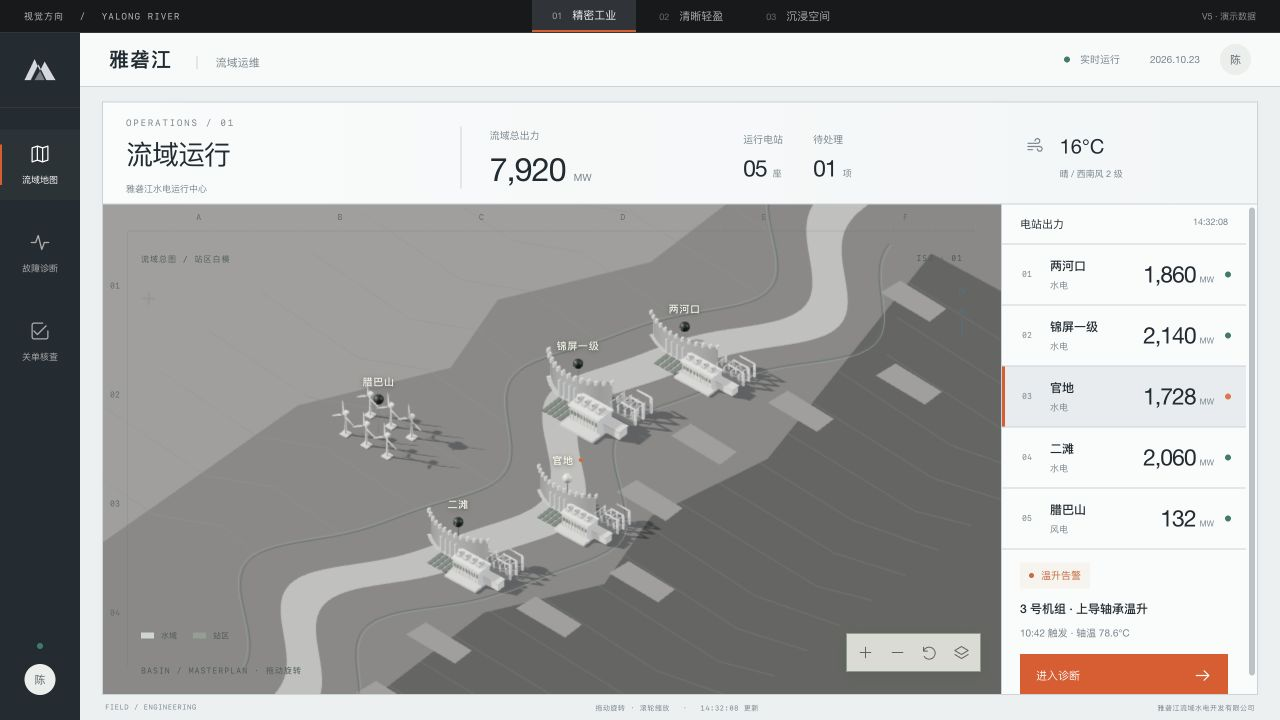
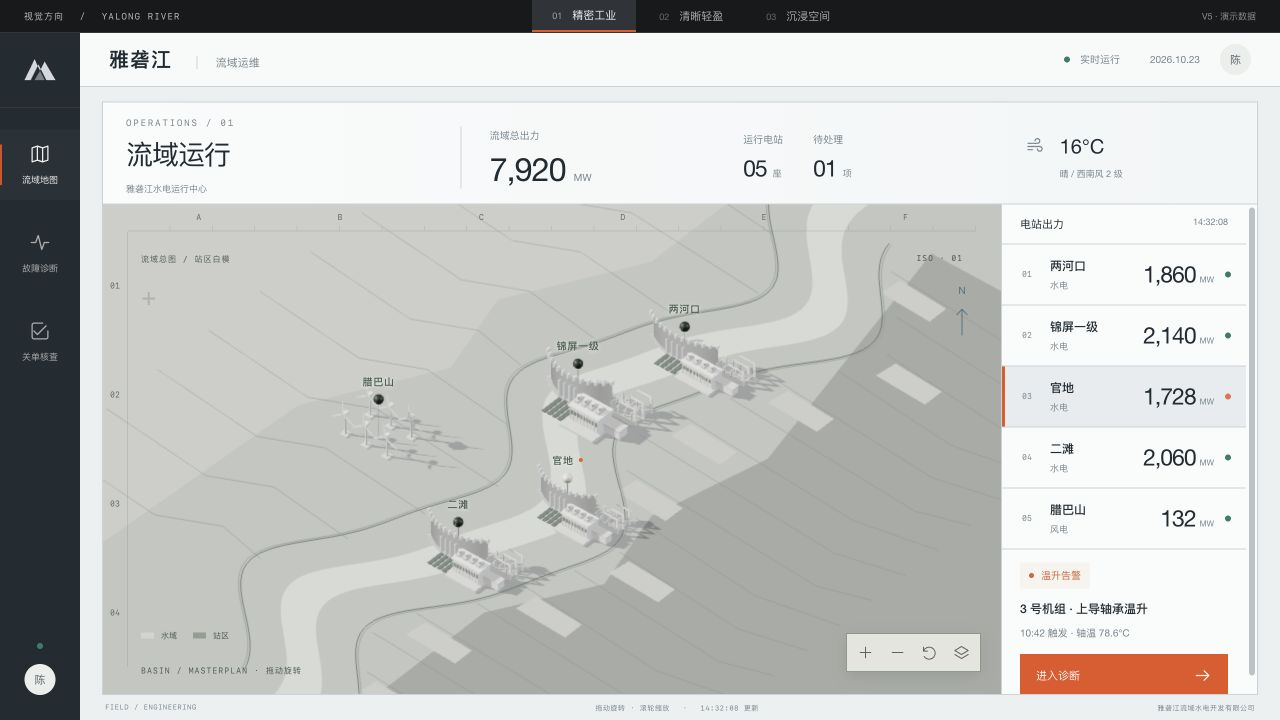
Keep precision industrial in a light drafting palette

diff --git a/compare.html b/compare.html
@@ -1,1 +1,1 @@
-<!doctype html><html lang="zh-CN"><meta charset="utf-8"><meta name="viewport" content="width=device-width,initial-scale=1"><title>雅砻江 · 三方向对比</title><style>*{box-sizing:border-box}body{margin:0;background:#f1f2f3;color:#262b30;font-family:Helvetica Neue,PingFang SC,sans-serif}main{max-width:1780px;margin:auto;padding:42px 36px}header{display:flex;justify-content:space-between;align-items:flex-end;margin-bottom:34px;border-bottom:1px solid #cbd0d5;padding-bottom:26px}h1{font-size:30px;font-weight:500;margin:8px 0 0;letter-spacing:-1px}.eyebrow{font:10px monospace;letter-spacing:2px;color:#858b91}header a{font-size:11px;color:#5b6873;text-decoration:none}h2{font-size:18px;font-weight:500;margin:10px 0}.columns{display:grid;grid-template-columns:repeat(3,minmax(0,1fr));gap:22px}.intro p{font-size:11px;color:#7e858d;margin:8px 0 18px}.intro nav{display:flex;gap:15px}.intro nav a{font-size:11px;color:#515e6c;text-decoration:none;border-bottom:1px solid #aab4bd;padding-bottom:5px}.row-heading{display:flex;gap:15px;align-items:baseline;border-bottom:1px solid #c7cdd2;padding-bottom:12px;margin:32px 0 18px;font-size:12px}.row-heading span{font:10px monospace;color:#8c949d}.preview{display:block;box-shadow:0 12px 25px #26323a10;background:white;text-decoration:none;color:inherit;align-self:start;transition:transform .2s}.preview:hover{transform:translateY(-4px)}.preview img{display:block;width:100%;height:auto}.preview>span{display:block;padding:12px 14px;font-size:11px;border-top:1px solid #d8dde1}.preview b{float:right;font-weight:400;color:#7b8894}footer{margin-top:30px;font-size:11px;color:#7b848d}@media(max-width:750px){main{padding:25px 16px}.columns{gap:10px}h1{font-size:24px}header a{display:none}.intro nav{flex-wrap:wrap;gap:8px}h2{font-size:15px}.intro p{font-size:10px}.preview>span{font-size:9px;padding:9px}.preview b{display:none}}@media(max-width:680px){.columns.previews{display:flex;flex-direction:column;gap:20px}.preview{width:100%}.columns.intros{gap:16px}h2{font-size:13px}}.version-links{display:flex;flex-wrap:wrap;gap:12px;margin:28px 0 0;padding:22px 0 6px;border-top:1px solid #d2d8dd}.version-links a{font-size:12px;color:#435565;text-decoration:none;padding:10px 16px;background:#fff;border:1px solid #dce1e5}.version-links a:hover{border-color:#8596a5}.version-links span{font-size:11px;color:#818b94;align-self:center}.preview img{aspect-ratio:16/9;object-fit:contain}@media(max-width:680px){.columns.intros{grid-template-columns:1fr}.intro{padding-bottom:16px;border-bottom:1px solid #d2d8dd}.intro nav{gap:22px}} </style><main><header><div><div class="eyebrow">YALONG RIVER / V5</div><h1>三种视觉方向</h1></div><a href="https://github.com/CSX1584/yalongjiang02/releases">历史版本下载 ↗</a></header><div class="columns intros"><section class="intro"><div class="eyebrow">DIRECTION 01</div><h2>精密工业</h2><p>白模总图、解剖线框与局部定位</p><nav><a href="./?style=precision&page=map">地图 ↗</a><a href="./?style=precision&page=diagnosis">诊断 ↗</a><a href="./?style=precision&page=review">核查 ↗</a></nav></section><section class="intro"><div class="eyebrow">DIRECTION 02</div><h2>清晰轻盈</h2><p>待办、证据与核查</p><nav><a href="./?style=light&page=map">地图 ↗</a><a href="./?style=light&page=diagnosis">诊断 ↗</a><a href="./?style=light&page=review">核查 ↗</a></nav></section><section class="intro"><div class="eyebrow">DIRECTION 03</div><h2>沉浸空间</h2><p>浅色展台、柔光与空间感</p><nav><a href="./?style=immersive&page=map">地图 ↗</a><a href="./?style=immersive&page=diagnosis">诊断 ↗</a><a href="./?style=immersive&page=review">核查 ↗</a></nav></section></div><div class="row-heading">流域地图<span>MAP</span></div><div class="columns previews"><a class="preview" href="./?style=precision&page=map"><img src="./artifacts-v5/precision-map.png" alt="精密工业 · 流域地图"><span>精密工业 / 流域地图<b>打开 Demo ↗</b></span></a><a class="preview" href="./?style=light&page=map"><img src="./artifacts-v5/light-map.png" alt="清晰轻盈 · 流域地图"><span>清晰轻盈 / 流域地图<b>打开 Demo ↗</b></span></a><a class="preview" href="./?style=immersive&page=map"><img src="./artifacts-v5/immersive-map.png" alt="沉浸空间 · 流域地图"><span>沉浸空间 / 流域地图<b>打开 Demo ↗</b></span></a></div><div class="row-heading">故障诊断<span>DIAGNOSIS</span></div><div class="columns previews"><a class="preview" href="./?style=precision&page=diagnosis"><img src="./artifacts-v5/precision-diagnosis.png" alt="精密工业 · 故障诊断"><span>精密工业 / 故障诊断<b>打开 Demo ↗</b></span></a><a class="preview" href="./?style=light&page=diagnosis"><img src="./artifacts-v5/light-diagnosis.png" alt="清晰轻盈 · 故障诊断"><span>清晰轻盈 / 故障诊断<b>打开 Demo ↗</b></span></a><a class="preview" href="./?style=immersive&page=diagnosis"><img src="./artifacts-v5/immersive-diagnosis.png" alt="沉浸空间 · 故障诊断"><span>沉浸空间 / 故障诊断<b>打开 Demo ↗</b></span></a></div><div class="row-heading">关单核查<span>REVIEW</span></div><div class="columns previews"><a class="preview" href="./?style=precision&page=review"><img src="./artifacts-v5/precision-review.png" alt="精密工业 · 关单核查"><span>精密工业 / 关单核查<b>打开 Demo ↗</b></span></a><a class="preview" href="./?style=light&page=review"><img src="./artifacts-v5/light-review.png" alt="清晰轻盈 · 关单核查"><span>清晰轻盈 / 关单核查<b>打开 Demo ↗</b></span></a><a class="preview" href="./?style=immersive&page=review"><img src="./artifacts-v5/immersive-review.png" alt="沉浸空间 · 关单核查"><span>沉浸空间 / 关单核查<b>打开 Demo ↗</b></span></a></div><nav class="version-links"><a href="https://github.com/CSX1584/yalongjiang02/releases/tag/archive-v1-20261023">V1 · 初版下载 ↗</a><a href="https://github.com/CSX1584/yalongjiang02/releases/tag/archive-v2-20261023">V2 · 布局与 3D 精修 ↗</a><a href="https://github.com/CSX1584/yalongjiang02/releases/tag/archive-v3-20261023">V3 · 自适应与运镜 ↗</a><a href="https://github.com/CSX1584/yalongjiang02/releases/tag/archive-v4-20261023">V4 · 浅色空间与精密工业 ↗</a><a href="https://github.com/CSX1584/yalongjiang02/releases/tag/archive-v5-20261026">V5 · 解剖线框与白模总图 ↗</a><span>每个版本独立保存，可同时打开。</span></nav><footer>点击预览进入可交互 Demo。场景与数据均为示意。</footer></main></html>
+<!doctype html><html lang="zh-CN"><meta charset="utf-8"><meta name="viewport" content="width=device-width,initial-scale=1"><title>雅砻江 · 三方向对比</title><style>*{box-sizing:border-box}body{margin:0;background:#f1f2f3;color:#262b30;font-family:Helvetica Neue,PingFang SC,sans-serif}main{max-width:1780px;margin:auto;padding:42px 36px}header{display:flex;justify-content:space-between;align-items:flex-end;margin-bottom:34px;border-bottom:1px solid #cbd0d5;padding-bottom:26px}h1{font-size:30px;font-weight:500;margin:8px 0 0;letter-spacing:-1px}.eyebrow{font:10px monospace;letter-spacing:2px;color:#858b91}header a{font-size:11px;color:#5b6873;text-decoration:none}h2{font-size:18px;font-weight:500;margin:10px 0}.columns{display:grid;grid-template-columns:repeat(3,minmax(0,1fr));gap:22px}.intro p{font-size:11px;color:#7e858d;margin:8px 0 18px}.intro nav{display:flex;gap:15px}.intro nav a{font-size:11px;color:#515e6c;text-decoration:none;border-bottom:1px solid #aab4bd;padding-bottom:5px}.row-heading{display:flex;gap:15px;align-items:baseline;border-bottom:1px solid #c7cdd2;padding-bottom:12px;margin:32px 0 18px;font-size:12px}.row-heading span{font:10px monospace;color:#8c949d}.preview{display:block;box-shadow:0 12px 25px #26323a10;background:white;text-decoration:none;color:inherit;align-self:start;transition:transform .2s}.preview:hover{transform:translateY(-4px)}.preview img{display:block;width:100%;height:auto}.preview>span{display:block;padding:12px 14px;font-size:11px;border-top:1px solid #d8dde1}.preview b{float:right;font-weight:400;color:#7b8894}footer{margin-top:30px;font-size:11px;color:#7b848d}@media(max-width:750px){main{padding:25px 16px}.columns{gap:10px}h1{font-size:24px}header a{display:none}.intro nav{flex-wrap:wrap;gap:8px}h2{font-size:15px}.intro p{font-size:10px}.preview>span{font-size:9px;padding:9px}.preview b{display:none}}@media(max-width:680px){.columns.previews{display:flex;flex-direction:column;gap:20px}.preview{width:100%}.columns.intros{gap:16px}h2{font-size:13px}}.version-links{display:flex;flex-wrap:wrap;gap:12px;margin:28px 0 0;padding:22px 0 6px;border-top:1px solid #d2d8dd}.version-links a{font-size:12px;color:#435565;text-decoration:none;padding:10px 16px;background:#fff;border:1px solid #dce1e5}.version-links a:hover{border-color:#8596a5}.version-links span{font-size:11px;color:#818b94;align-self:center}.preview img{aspect-ratio:16/9;object-fit:contain}@media(max-width:680px){.columns.intros{grid-template-columns:1fr}.intro{padding-bottom:16px;border-bottom:1px solid #d2d8dd}.intro nav{gap:22px}} </style><main><header><div><div class="eyebrow">YALONG RIVER / V5</div><h1>三种视觉方向</h1></div><a href="https://github.com/CSX1584/yalongjiang02/releases">历史版本下载 ↗</a></header><div class="columns intros"><section class="intro"><div class="eyebrow">DIRECTION 01</div><h2>精密工业</h2><p>白模总图、解剖线框与局部定位</p><nav><a href="./?style=precision&page=map">地图 ↗</a><a href="./?style=precision&page=diagnosis">诊断 ↗</a><a href="./?style=precision&page=review">核查 ↗</a></nav></section><section class="intro"><div class="eyebrow">DIRECTION 02</div><h2>清晰轻盈</h2><p>待办、证据与核查</p><nav><a href="./?style=light&page=map">地图 ↗</a><a href="./?style=light&page=diagnosis">诊断 ↗</a><a href="./?style=light&page=review">核查 ↗</a></nav></section><section class="intro"><div class="eyebrow">DIRECTION 03</div><h2>沉浸空间</h2><p>浅色展台、柔光与空间感</p><nav><a href="./?style=immersive&page=map">地图 ↗</a><a href="./?style=immersive&page=diagnosis">诊断 ↗</a><a href="./?style=immersive&page=review">核查 ↗</a></nav></section></div><div class="row-heading">流域地图<span>MAP</span></div><div class="columns previews"><a class="preview" href="./?style=precision&page=map"><img src="./artifacts-v5/precision-map.png" alt="精密工业 · 流域地图"><span>精密工业 / 流域地图<b>打开 Demo ↗</b></span></a><a class="preview" href="./?style=light&page=map"><img src="./artifacts-v5/light-map.png" alt="清晰轻盈 · 流域地图"><span>清晰轻盈 / 流域地图<b>打开 Demo ↗</b></span></a><a class="preview" href="./?style=immersive&page=map"><img src="./artifacts-v5/immersive-map.png" alt="沉浸空间 · 流域地图"><span>沉浸空间 / 流域地图<b>打开 Demo ↗</b></span></a></div><div class="row-heading">故障诊断<span>DIAGNOSIS</span></div><div class="columns previews"><a class="preview" href="./?style=precision&page=diagnosis"><img src="./artifacts-v5/precision-diagnosis.png" alt="精密工业 · 故障诊断"><span>精密工业 / 故障诊断<b>打开 Demo ↗</b></span></a><a class="preview" href="./?style=light&page=diagnosis"><img src="./artifacts-v5/light-diagnosis.png" alt="清晰轻盈 · 故障诊断"><span>清晰轻盈 / 故障诊断<b>打开 Demo ↗</b></span></a><a class="preview" href="./?style=immersive&page=diagnosis"><img src="./artifacts-v5/immersive-diagnosis.png" alt="沉浸空间 · 故障诊断"><span>沉浸空间 / 故障诊断<b>打开 Demo ↗</b></span></a></div><div class="row-heading">关单核查<span>REVIEW</span></div><div class="columns previews"><a class="preview" href="./?style=precision&page=review"><img src="./artifacts-v5/precision-review.png" alt="精密工业 · 关单核查"><span>精密工业 / 关单核查<b>打开 Demo ↗</b></span></a><a class="preview" href="./?style=light&page=review"><img src="./artifacts-v5/light-review.png" alt="清晰轻盈 · 关单核查"><span>清晰轻盈 / 关单核查<b>打开 Demo ↗</b></span></a><a class="preview" href="./?style=immersive&page=review"><img src="./artifacts-v5/immersive-review.png" alt="沉浸空间 · 关单核查"><span>沉浸空间 / 关单核查<b>打开 Demo ↗</b></span></a></div><nav class="version-links"><a href="https://github.com/CSX1584/yalongjiang02/releases/tag/archive-v1-20261023">V1 · 初版下载 ↗</a><a href="https://github.com/CSX1584/yalongjiang02/releases/tag/archive-v2-20261023">V2 · 布局与 3D 精修 ↗</a><a href="https://github.com/CSX1584/yalongjiang02/releases/tag/archive-v3-20261023">V3 · 自适应与运镜 ↗</a><a href="https://github.com/CSX1584/yalongjiang02/releases/tag/archive-v4-20261023">V4 · 浅色空间与精密工业 ↗</a><a href="https://github.com/CSX1584/yalongjiang02/releases/tag/archive-v5-light-20261026">V5 · 浅色剖面与白模总图 ↗</a><span>每个版本独立保存，可同时打开。</span></nav><footer>点击预览进入可交互 Demo。场景与数据均为示意。</footer></main></html>

diff --git a/precision-scene.js b/precision-scene.js
@@ -6,7 +6,7 @@ const ease=t=>t*t*t*(t*(t*6-15)+10);
 let instance=0;
 export function createPrecisionScene(initialHost,initialOptions){
  let host=initialHost,opt={...initialOptions},mode=opt.mode,dead=false,suspended=false,flight=null,halfHeight=6,aspect=1,lastTime=performance.now(),explosion=0;
- const colors={active:new T.Color(0xe96636),shaft:new T.Color(0x6c7672),body:new T.Color(0x40494a),activeLine:new T.Color(0xffb086),line:new T.Color(0xbac5bc)};
+ const colors={active:new T.Color(0xe96636),shaft:new T.Color(0xb2b8b3),body:new T.Color(0x9ca19f),activeLine:new T.Color(0xb35429),line:new T.Color(0x46534b)};
  const reduced=matchMedia('(prefers-reduced-motion: reduce)').matches;
  const renderer=new T.WebGLRenderer({antialias:true,alpha:true,powerPreference:'high-performance'});
  renderer.setPixelRatio(Math.min(devicePixelRatio,1.7));renderer.shadowMap.enabled=true;renderer.shadowMap.type=T.PCFSoftShadowMap;
@@ -39,14 +39,14 @@ export function createPrecisionScene(initialHost,initialOptions){
  function rebuildLabels(){labels.innerHTML='';const source=mode==='map'?plan.anchors:anatomy.anchors;
   for(const a of source){const el=document.createElement('button');el.className=mode==='map'?'plan-label':'anatomy-label';el.type='button';el.dataset.object=a.id;el.setAttribute('aria-label',mode==='map'?'定位'+a.name:'定位'+a.name);el.innerHTML=mode==='map'?`<span>${a.name}</span>${a.id==='guandi'&&!opt.closed?'<i></i>':''}`:`<span>${a.name}</span><small>${a.id==='bearing'?(opt.closed?'64.2':'78.6')+'°C':a.id==='cooler'?'F-302':'UNIT 03'}</small>`;el.addEventListener('click',()=>opt.onSelect?.(a.id));labels.appendChild(el);a.el=el;}
  }
- function sync(previousMode){const map=mode==='map';plan.root.visible=map;anatomy.root.visible=!map;world.background=map?new T.Color(0xaeb1ae):null;renderer.setClearColor(map?0xaeb1ae:0x161a1b,map?1:0);sun.castShadow=map;sun.intensity=map?3:1.8;ambient.intensity=map?.3:.95;world.environmentIntensity=map?.25:.48;renderer.toneMappingExposure=map?.97:1.12;controls.maxPolarAngle=map?Math.PI*.48:Math.PI*.85;
+ function sync(previousMode){const map=mode==='map';plan.root.visible=map;anatomy.root.visible=!map;world.background=map?new T.Color(0xaeb1ae):null;renderer.setClearColor(map?0xaeb1ae:0xedf0ed,map?1:0);sun.castShadow=map;sun.intensity=map?3:1.8;ambient.intensity=map?.3:.95;world.environmentIntensity=map?.25:.48;renderer.toneMappingExposure=map?.97:1.12;controls.maxPolarAngle=map?Math.PI*.48:Math.PI*.85;
   Object.assign(canvas.dataset,{mode,focusPart:opt.focusedPart||'whole',visualization:opt.deviceMode||'cutaway',sceneKind:map?'planar-masterplan':'sectioned-generator'});
   for(const a of plan.anchors){a.pin.material=a.id===opt.selected?plan.materials.selected:plan.materials.sphere;a.cross.visible=a.id!==opt.selected;}
   rebuildLabels();measure();navigate(previousMode!==mode);
  }
  function updateMaterials(dt){const focus=opt.focusedPart,wire=opt.deviceMode==='wireframe';for(const entry of anatomy.materials){const {id,kind,mat,lineMat}=entry,active=focus?id===focus:id==='bearing'&&!opt.closed,ghost=!!focus&&id!==focus;
    const alpha=ghost?0:wire?(active?.06:0):active?(kind==='shell'?.18:.98):kind==='shell'?.045:.96;
-   const lineAlpha=ghost?(kind==='winding'?.018:.065):active?.8:wire?(kind==='winding'?.38:.62):kind==='shell'?.24:.42;
+   const lineAlpha=ghost?(kind==='winding'?.04:.12):active?.68:wire?(kind==='winding'?.3:.58):kind==='shell'?.26:.42;
    mat.opacity=T.MathUtils.damp(mat.opacity,alpha,10,dt);mat.depthWrite=!ghost&&!wire&&kind!=='shell';lineMat.opacity=T.MathUtils.damp(lineMat.opacity,lineAlpha,10,dt);
    mat.color.lerp(active?colors.active:kind==='shaft'?colors.shaft:colors.body,1-Math.exp(-dt*10));lineMat.color.lerp(active?colors.activeLine:colors.line,1-Math.exp(-dt*10));
   }}

diff --git a/v5.css b/v5.css
@@ -53,3 +53,14 @@
 }
 .precision .plan-label{background:transparent;color:#f4f3e9;font-size:10px;font-weight:500;text-shadow:0 1px 5px #252f2899;letter-spacing:.7px}
 .precision .plan-label.selected{background:transparent;color:#fff8e9}
+/* Light drafting surface: contrast comes from precise edges and section depth. */
+.precision .device-visual{background-color:#edf0ed;background-image:radial-gradient(circle,#778b7b36 .7px,transparent .9px)}
+.precision .device-visual .drawing-ruler,.precision .device-visual .drawing-index{color:#87948a;border-color:#7b8f7c36}
+.precision .device-visual .engineering-corner{color:#8a978c}.precision .device-visual .engineering-corner b{color:#4d5d51}
+.precision .device-visual .engineering-axis{color:#6a8070;opacity:.6}.precision .device-visual .dimension-rule{color:#7a8d7c;opacity:.6}
+.precision .device-visual .scene-foot{color:#7e8f80}
+.precision .anatomy-modes{background:#ffffff9c;border-color:#b7c1b7}.precision .anatomy-modes button{color:#79887b}.precision .anatomy-modes button.active{background:#46554b;color:#f9faf6}
+.precision .device-tools .outline{background:#fbfcf8d9;border-color:#b8c4b9;color:#66776b}.precision .device-tools .anatomy-reset{color:#3e5446}
+.precision .device-visual .part-switch{background:#fbfcf8d9;border-color:#bbc6ba}.precision .device-visual .part-switch button{color:#748378}.precision .device-visual .part-switch button.active{color:#a45b36;background:#f3e3d4}
+.precision .anatomy-label{color:#566f5d;border-bottom-color:#70857355}.precision .anatomy-label:before{background:#718a77}.precision .anatomy-label small{color:#87978a}.precision .anatomy-label.selected{color:#ad5d32;border-bottom-color:#bc764d66}.precision .anatomy-label.selected:before{background:#c87544}.precision .anatomy-label.selected small{color:#a76f4c}
+.precision .plan-label,.precision .plan-label.selected{color:#485b4b;text-shadow:0 1px 5px #ffffffb3}.precision .map-visual{background:#c5ccc3}

diff --git a/precision-models.js b/precision-models.js
@@ -80,7 +80,7 @@ export function buildAnatomy(){
 export function buildMasterplan(){
  const root=new T.Group(),pickables=[],anchors=[],rotors=[],stationPositions=new Map();
  const mat=(color,roughness=.9,metalness=0)=>new T.MeshStandardMaterial({color,roughness,metalness});
- const m={ground:mat(0x747474),region:mat(0x585958),region2:mat(0x878787),water:mat(0xababab),white:mat(0xeeeeeC,.68),roof:mat(0xd6d6d4),dark:mat(0x6f7773),glass:mat(0x919b94,.4,.18),sphere:mat(0x4c5450,.33,.65),selected:mat(0xf6f3e8,.3,.2)};
+ const m={ground:mat(0xb1b4b1),region:mat(0x909390),region2:mat(0xc0c2bc),water:mat(0xd6dbd4),white:mat(0xeeeeeC,.68),roof:mat(0xd6d6d4),dark:mat(0x6f7773),glass:mat(0x919b94,.4,.18),sphere:mat(0x4c5450,.33,.65),selected:mat(0xf6f3e8,.3,.2)};
  const geometryCache=new Map();
  function mesh(g,material,parent=root){const o=new T.Mesh(g,material);o.castShadow=true;o.receiveShadow=true;parent.add(o);return o}
  function box(w,h,d,x,y,z,material=m.white,parent=root){let key=[w,h,d].join();if(!geometryCache.has(key))geometryCache.set(key,new T.BoxGeometry(w,h,d));const o=mesh(geometryCache.get(key),material,parent);o.position.set(x,y,z);return o}
